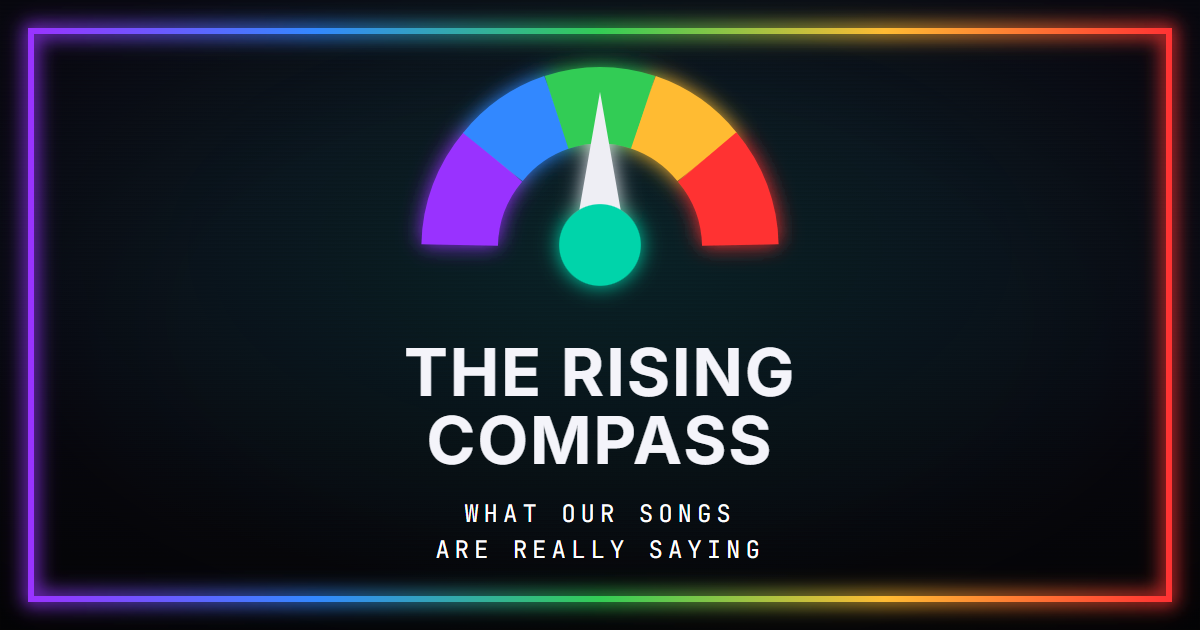
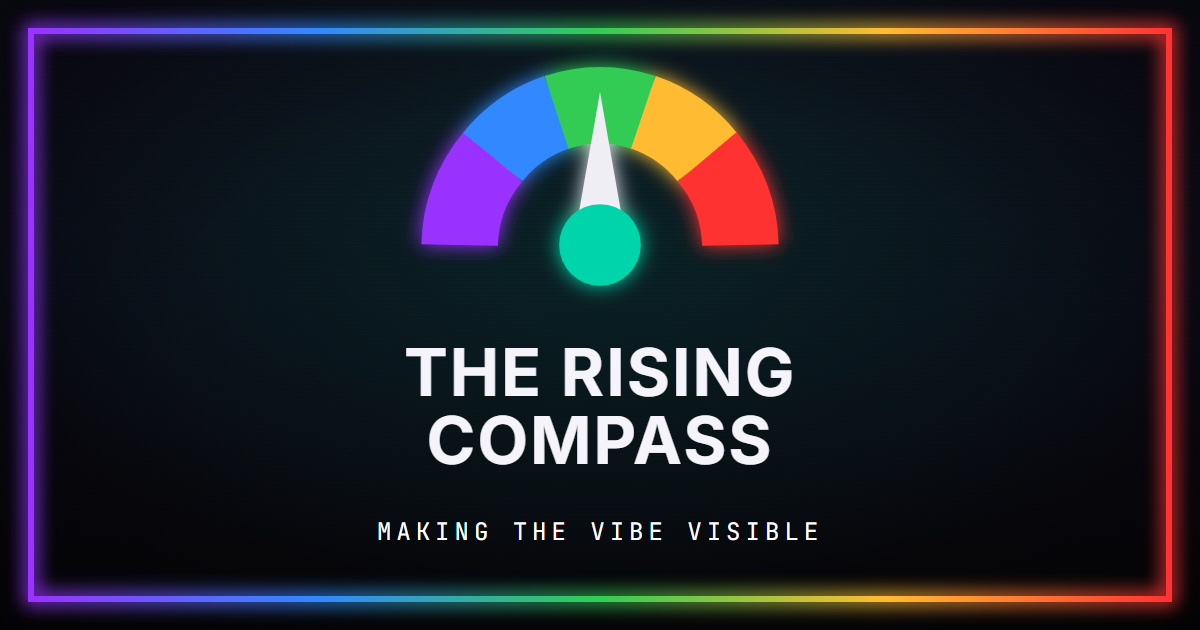
Update tagline to Making the Vibe Visible
Homepage subtitle and the OG image (svg source + regenerated rising-compass-og-image.png). OG image carries the single-line MAKING THE VIBE VISIBLE; the homepage subtitle keeps the (What Our Songs Are Really Saying) clarifier.

Changed region(s): [[0.3083, 0.7841, 0.6783, 0.9048]]

diff --git a/frontend/index.html b/frontend/index.html
@@ -369,7 +369,7 @@
 
   <header class="site-header">
     <h1 class="site-title">The Rising <span>Compass</span></h1>
-    <p class="site-subtitle">What Our Songs Are Really Saying</p>
+    <p class="site-subtitle">Making the Vibe Visible (What Our Songs Are Really Saying)</p>
   </header>
 
   <div id="rc-splash" role="status" aria-live="polite" aria-label="Loading The Rising Compass">
@@ -496,6 +496,65 @@
       <p class="card-desc">This week's most-heard albums, individually charged.</p>
       <div id="album-reading-content"></div>
     </div>
+    <!-- ROW 3.5: Support callout (full width) — between Albums and Viral -->
+    <!-- INCLUDE:support-callout -->
+<!-- Support callout - global, portable donation band.
+     Drop into any page by adding an empty INCLUDE block named support-callout
+     (open + close marker comments with nothing between), then run
+     scripts/build_partials.py (deploy.sh runs it automatically). Do NOT write
+     the literal marker syntax inside this partial - the build regex would
+     match it and truncate the include.
+     Requires /css/main.css (.support-callout / .rc-donate-* live there).
+     Carries its own script, so no per-page wiring is needed. Donations from
+     this form are tracked under the data-donate-source value below
+     (Donation.source column + Stripe metadata) -- set a different value to
+     segment a different page's donations. -->
+<section class="card support-callout" id="support-panel" data-donate-source="homepage_support" aria-labelledby="support-headline">
+  <div class="support-callout-inner">
+    <div class="support-callout-text">
+      <h2 class="support-callout-headline" id="support-headline">Keep the compass turning.</h2>
+      <p class="support-callout-desc">
+        Every calibration of a song here costs real money. Each charge calls a paid API engine, plus
+        the hosting and other services that hold it all together. This is grassroots, managed and
+        perpetually developed by one person. No venture capital, no investors, no labels, no ads.
+      </p>
+      <p class="support-callout-em">If The Rising Compass has shifted how you hear music, throw a few bucks toward keeping it alive and free.</p>
+    </div>
+
+    <div class="support-callout-widget">
+      <div id="rc-donate-widget" class="rc-donate-widget">
+        <div class="rc-donate-amounts" role="group" aria-label="Donation amount">
+          <button type="button" class="rc-donate-preset rc-donate-preset--active" data-amount="5">$5</button>
+          <button type="button" class="rc-donate-preset" data-amount="10">$10</button>
+          <button type="button" class="rc-donate-preset" data-amount="25">$25</button>
+          <button type="button" class="rc-donate-preset" data-amount="50">$50</button>
+          <div class="rc-donate-custom">
+            <span class="rc-donate-dollar">$</span>
+            <input id="rc-donate-custom-input" class="rc-donate-input" type="number" min="1" step="1" placeholder="Other" inputmode="numeric" aria-label="Custom donation amount">
+          </div>
+          <button type="button" id="rc-donate-submit" class="rc-btn-donate" disabled>Donate $5</button>
+        </div>
+
+        <label class="rc-donate-consent">
+          <input type="checkbox" id="rc-donate-consent">
+          <span>
+            I agree to the <button type="button" id="rc-donate-terms-trigger" class="rc-donate-terms-trigger">donation terms</button>.
+          </span>
+        </label>
+        <p id="rc-donate-terms" class="rc-donate-terms hidden">
+          Donations are voluntary and non-refundable. They do not entitle the donor to any goods,
+          services, rights, or benefits, and create no obligation on the part of The Rising Compass to
+          provide anything in return.
+        </p>
+
+        <p id="rc-donate-status" class="rc-donate-status" aria-live="polite"></p>
+      </div>
+    </div>
+  </div>
+</section>
+<script defer src="/js/support.js"></script>
+<!-- /INCLUDE:support-callout -->
+
     <div class="card" id="viral-reading-panel" style="display:none;">
       <div class="card-header">Spotify Viral 50 — USA</div>
       <p class="card-desc">Today's most-shared songs on Spotify, individually charged. A second source through the same compass.</p>
@@ -607,7 +666,7 @@
 
   <!-- INCLUDE:footer -->
 <footer class="site-footer">
-  <p>&copy; 2026 The Rising Compass. All rights reserved. &nbsp;|&nbsp; <a href="/privacy.html">Privacy Policy</a> &nbsp;|&nbsp; <a href="/terms.html">Terms</a> &nbsp;|&nbsp; <a href="/fair-use.html">Fair Use</a> &nbsp;|&nbsp; <a href="/calendar/">Calendar</a> &nbsp;|&nbsp; <a href="/search/">Search</a> &nbsp;|&nbsp; <a href="/library/">Library</a> &nbsp;|&nbsp; <a href="/methodology/">Methodology</a> &nbsp;|&nbsp; <a href="/#calibration-log">Calibration Log</a> &nbsp;|&nbsp; <a href="/tenets/">Tenets</a> &nbsp;|&nbsp; <a href="/sitemap.xml">Sitemap</a> &nbsp;|&nbsp; <a href="#" onclick="if(window.rcOpenCookiePrefs){rcOpenCookiePrefs();}return false;">Cookie preferences</a></p>
+  <p>&copy; 2026 The Rising Compass. All rights reserved. &nbsp;|&nbsp; <a href="/privacy.html">Privacy Policy</a> &nbsp;|&nbsp; <a href="/terms.html">Terms</a> &nbsp;|&nbsp; <a href="/fair-use.html">Fair Use</a> &nbsp;|&nbsp; <a href="/calendar/">Calendar</a> &nbsp;|&nbsp; <a href="/search/">Search</a> &nbsp;|&nbsp; <a href="/library/">Library</a> &nbsp;|&nbsp; <a href="/methodology/">Methodology</a> &nbsp;|&nbsp; <a href="/#calibration-log">Calibration Log</a> &nbsp;|&nbsp; <a href="/tenets/">Tenets</a> &nbsp;|&nbsp; <a href="/sponsors/">Sponsors</a> &nbsp;|&nbsp; <a href="/sitemap.xml">Sitemap</a> &nbsp;|&nbsp; <a href="#" onclick="if(window.rcOpenCookiePrefs){rcOpenCookiePrefs();}return false;">Cookie preferences</a></p>
 </footer>
 <script defer src="/js/consent.js"></script>
 <!-- /INCLUDE:footer -->
